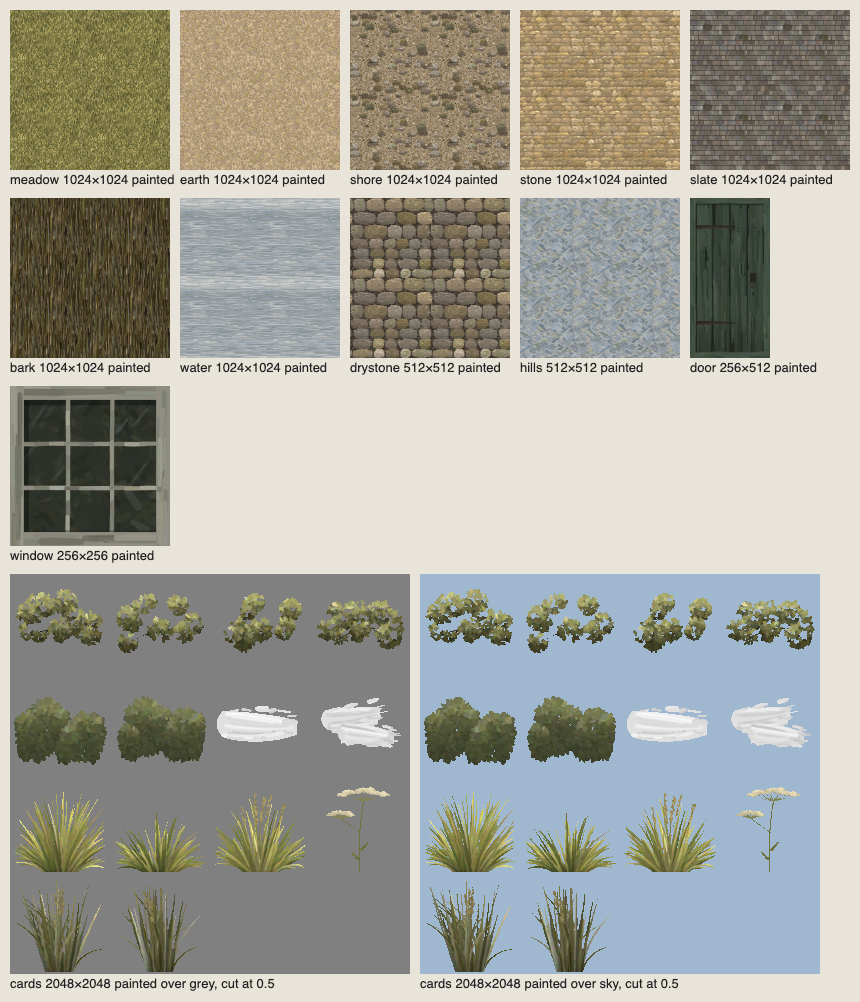
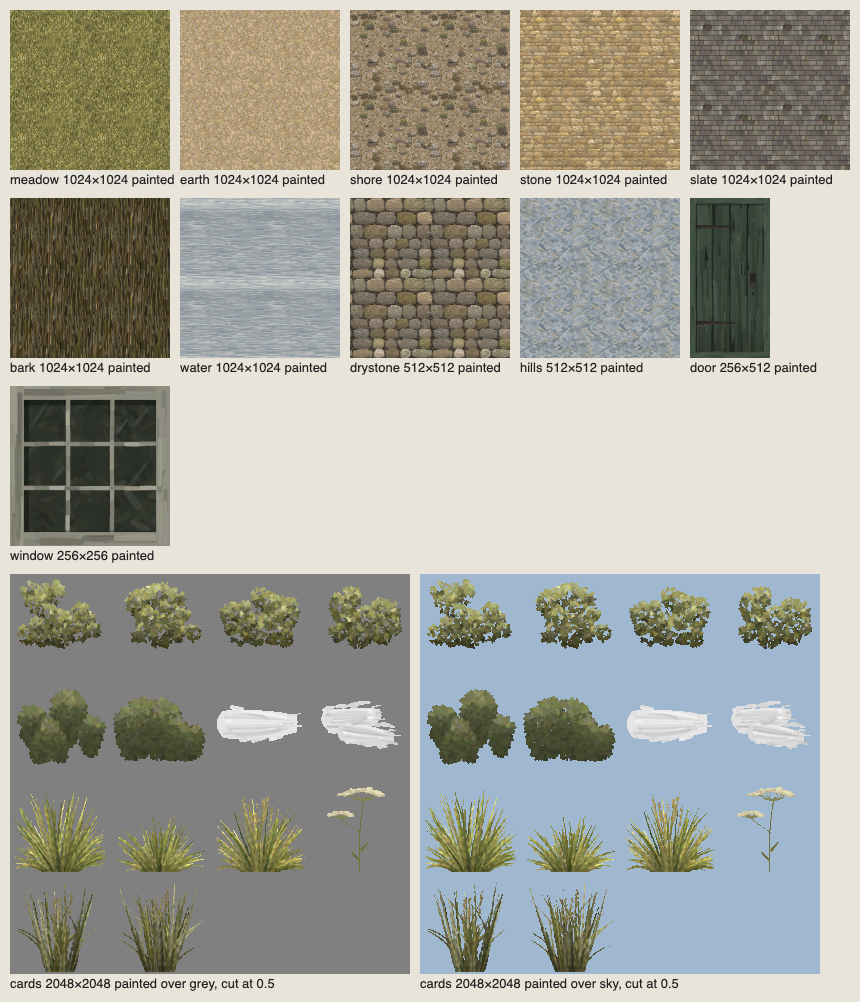
Grow oak sprays as connected branches, and step the reed outlines
Oak lobes now grow in branches from a large heart, each overlapping the
one it grows from, with small separated sky gaps; twigs follow the
branching and are kept only where leaves cover both ends. Blade strokes
vary in width and offset, alternate in tone and sometimes leave a nick,
so narrow arching reed leaves no longer run as one smooth shape. The
plates README states each failure message as it is printed.

diff --git a/scripts/space-painter/painter.js b/scripts/space-painter/painter.js
@@ -245,16 +245,24 @@ const MARGIN = 8, FRINGE_ALPHA = 8; // clear border per cell; 8-bit alpha of the
 // off in colour, so the outline breaks where one stroke hands over to the next. Returns false (drawing nothing) if any part would
 // leave the cell's clear margin.
 function blade(g, x, y, {len, lean, curl = 0, width, color, rib = false}, n, r) {
-  const steps = Math.max(4, Math.min(12, Math.round(len / (width * 1.6)))), spine = []; let a = lean, px = x, py = y;
+  const steps = Math.max(5, Math.min(18, Math.round(len / (width * 1.5)))), spine = []; let a = lean, px = x, py = y;
   for (let q = 0; q <= steps; q++) { spine.push([px, py, a]); px += Math.sin(a) * len / steps; py -= Math.cos(a) * len / steps; a += curl / steps; }
-  const half = q => width / 2 * (1 - q / steps) ** .7 + 1;
+  const half = q => width / 2 * (1 - q / steps) ** .7 * 1.25 + 2;
   if (spine.some(([u, v], q) => u - half(q) < MARGIN + 4 || u + half(q) > n - MARGIN - 4 || v - half(q) < MARGIN + 4 || v > n - MARGIN)) return false;
   const seg = len / steps;
   for (let q = 0; q < steps; q++) {
-    const [u0, v0, a0] = spine[q], [u1, v1] = spine[q + 1], t = (q + .5) / steps, last = q === steps - 1;
-    const shade = .62 + .56 * t ** .8, w = width * (1 - t) ** .7 * (1.05 + r() * .2) + 1.5;
-    dab(g, (u0 + u1) / 2, (v0 + v1) / 2, {angle: a0 - Math.PI / 2 + (r() - .5) * .06, len: seg * (last ? 1.15 : 1.7), width: Math.max(2, w), color: jitter(r, mul(color, shade), .12),
-      alpha: 1, bristles: 3, bend: (r() - .5) * .25, taper: last ? 1 : .55, ridge: rib && t > .3 ? .45 : 0}, r);
+    const [u0, v0, a0] = spine[q], [u1, v1] = spine[q + 1], t = (q + .5) / steps, last = q === steps - 1, angle = a0 - Math.PI / 2;
+    // Each stroke differs in width, sits a little off the spine and alternates lighter and darker, so the outline steps where
+    // one stroke hands over to the next instead of running as one smooth curve.
+    const shade = (.62 + .56 * t ** .8) * (q % 2 ? .9 : 1.08) * (.94 + r() * .12), w = width * (1 - t) ** .7 * (.85 + r() * .4) + 1.5, off = (r() - .5) * .35 * w;
+    const cx = (u0 + u1) / 2 - Math.sin(angle) * off, cy = (v0 + v1) / 2 + Math.cos(angle) * off;
+    dab(g, cx, cy, {angle: angle + (r() - .5) * .1, len: seg * (last ? 1.15 : 1.45 + r() * .4), width: Math.max(2, w), color: jitter(r, mul(color, shade), .1),
+      alpha: 1, bristles: 3, bend: (r() - .5) * .4, taper: last ? 1 : .5, ridge: rib && t > .3 ? .45 : 0}, r);
+    if (!last && r() < .22) { // a nick or dry-bristle trail off one edge, pointing on up the blade
+      const side = r() < .5 ? -1 : 1, e = w * (.45 + r() * .15);
+      dab(g, cx - Math.sin(angle) * side * e, cy + Math.cos(angle) * side * e, {angle: angle + side * (.04 + r() * .08), len: seg * (.6 + r() * .5), width: Math.max(1.5, w * (.25 + r() * .2)),
+        color: jitter(r, mul(color, shade * (.9 + r() * .25)), .12), alpha: 1, bristles: 1, taper: .9}, r);
+    }
   }
   return true;
 }
@@ -289,14 +297,21 @@ function leafMass(g, r, n, {lobes, holes = [], floor = n, count, leaf, rosette, 
   }
 }
 
-// Lobes for one oak spray: an uneven fan of lobes reaching out, up and a little down from the heart of the clump, kept inside the cell.
+// Lobes for one oak spray: a large heart, then three or four branches of lobes reaching out and up from it, each lobe overlapping
+// the one it grows from, then a few lobes filling between them, so the spray is one connected, lobed mass with an irregular
+// outline. Every lobe records its parent so the twigs can follow the same branching.
 function oakLobes(r, n) {
-  const k = n / 512, lobes = [], count = 7 + (r() * 4 | 0), lean = (r() - .5) * .7;
-  for (let q = 0; q < count; q++) {
-    const rad = (32 + r() * 40) * k, ang = -Math.PI / 2 + lean + (q / (count - 1) - .5) * 3.8 + (r() - .5) * .5, dist = (80 + r() * 95) * k;
-    lobes.push({x: clamp(n / 2 + Math.cos(ang) * dist * 1.25, rad + 40 * k, n - rad - 40 * k), y: clamp(n * .55 + Math.sin(ang) * dist * .85, rad + 36 * k, n - rad - 44 * k), rad});
+  const k = n / 512, heart = {x: n / 2, y: n * .6, rad: 70 * k, parent: null}, lobes = [heart], branches = 3 + (r() * 2 | 0), lean = (r() - .5) * .4;
+  const grow = (p, ang) => {
+    const rad = (36 + r() * 32) * k, d = (p.rad + rad) * (.55 + r() * .2), x = p.x + Math.cos(ang) * d * 1.3, y = p.y + Math.sin(ang) * d * .8;
+    if (x < rad + 34 * k || x > n - rad - 34 * k || y < rad + 30 * k || y > n * .6 + 46 * k) return null;
+    const l = {x, y, rad, parent: p}; lobes.push(l); return l;
+  };
+  for (let b = 0; b < branches; b++) {
+    const dir = -Math.PI / 2 + lean + (b / (branches - 1) - .5) * 3 + (r() - .5) * .3;
+    for (let p = heart, q = 0, steps = 2 + (r() * 3 | 0); p && q < steps; q++) p = grow(p, dir + (r() - .5) * .6);
   }
-  lobes.push({x: n / 2, y: n * .56, rad: 58 * k}); // the heart of the spray, so no lobe floats free
+  for (let q = 0, fill = 3 + (r() * 3 | 0); q < fill * 4 && lobes.length < 8 + branches * 4; q++) grow(lobes[r() * lobes.length | 0], -Math.PI / 2 + (r() - .5) * 3);
   return lobes;
 }
 
@@ -328,16 +343,24 @@ const CARDS = {
   // Lobed, lacy oak sprays: small leaves in uneven rosettes, yellow-green where lit, olive beneath, sky through small gaps.
   oak(g, r, n, i, s) {
     const lobes = oakLobes(r, n), k = n / 512, holes = [];
-    for (let q = 0; q < 9 + (r() * 5 | 0); q++) { const l = lobes[r() * lobes.length | 0]; holes.push([l.x + (r() - .5) * l.rad * 1.4, l.y + (r() - .5) * l.rad * 1.4, (8 + r() * 13) * k]); }
-    // Twigs, seen only in the shadowed lower half through the gaps: each starts somewhere in the heart of the spray (never below the
-    // mass) and stops short inside a lower or side lobe; the lit top has none.
-    const heart = lobes[lobes.length - 1]; g.lineCap = 'round'; g.strokeStyle = css(mul(s.bark.mean, .6));
-    for (const l of lobes.slice(0, -1)) {
-      if (l.y < heart.y - heart.rad * .4) continue;
-      const sx = heart.x + (r() - .5) * heart.rad * 1.2, sy = heart.y + (r() - .2) * heart.rad * .5, ex = sx + (l.x - sx) * (.6 + r() * .25), ey = sy + (l.y - sy) * (.6 + r() * .25);
-      g.lineWidth = (2 + r() * 2) * k; g.beginPath(); g.moveTo(sx, sy); g.quadraticCurveTo((sx + ex) / 2, Math.min(sy, ey) - 8 * k, ex, ey); g.stroke();
+    for (let q = 0, want = 9 + (r() * 4 | 0); q < want * 6 && holes.length < want; q++) { // small sky gaps, kept apart so none merge into a void
+      const l = lobes[r() * lobes.length | 0], h = [l.x + (r() - .5) * l.rad, l.y + (r() - .5) * l.rad, (8 + r() * 7) * k];
+      if (holes.every(([x, y, hr]) => Math.hypot(x - h[0], y - h[1]) > hr + h[2] + 34 * k)) holes.push(h); }
+    let area = 0; // leaf count follows the mass's area so every spray is equally dense
+    for (let y = 0; y < n; y += 8) for (let x = 0; x < n; x += 8) if (lobes.some(l => Math.hypot(x - l.x, y - l.y) < l.rad)) area += 64;
+    const leaves = canvas(n), lg = leaves.getContext('2d', {willReadFrequently: true});
+    leafMass(lg, r, n, {lobes, holes, count: area * .0062, leaf: [10 * k, 19 * k], rosette: true, light: s.leafLight, mid: s.leaf, dark: s.leafDark, contrast: .8, calm: .2, taper: .75});
+    // Twigs follow the branching from each lobe's parent to it, only in the shadowed lower part (the lit top has none), and only
+    // where leaves cover both ends, so a twig shows through gaps in the mass but never ends in open sky. Leaves go over them.
+    const cover = leaves.getContext('2d').getImageData(0, 0, n, n).data, covered = (x, y) => {
+      for (let dy = -3; dy <= 3; dy += 3) for (let dx = -3; dx <= 3; dx += 3) if (cover[((Math.round(y + dy) * n) + Math.round(x + dx)) * 4 + 3] < 200) return false; return true; };
+    const heart = lobes[0]; g.lineCap = 'round'; g.strokeStyle = css(mul(s.bark.mean, .6));
+    for (const l of lobes.slice(1)) {
+      const p = l.parent, sx = p.x + (r() - .5) * p.rad * .3, sy = p.y + (r() - .5) * p.rad * .3, ex = l.x + (r() - .5) * l.rad * .3, ey = l.y + (r() - .5) * l.rad * .3;
+      if (l.y < heart.y - heart.rad * .5 || !covered(sx, sy) || !covered(ex, ey)) continue;
+      g.lineWidth = (2 + r() * 2) * k; g.beginPath(); g.moveTo(sx, sy); g.quadraticCurveTo((sx + ex) / 2, Math.min(sy, ey) - 6 * k, ex, ey); g.stroke();
     }
-    leafMass(g, r, n, {lobes, holes, count: 440 * k * k, leaf: [10 * k, 19 * k], rosette: true, light: s.leafLight, mid: s.leaf, dark: s.leafDark, contrast: .8, calm: .2, taper: .75});
+    g.drawImage(leaves, 0, 0);
   },
   // Distant tree masses: broad, flat-bottomed domes in a narrow sage-to-moss range, blunt strokes, softly lit tops.
   woods(g, r, n, i, s) {

diff --git a/artwork/lakeside-space-v1/plates/README.md b/artwork/lakeside-space-v1/plates/README.md
@@ -20,6 +20,6 @@ node scripts/prepare-space-assets.mjs --only cards
 
 When the plate is accepted, `public/assets/lakeside-space-v1/export.json` records `"source": "plate"` for that slot.
 
-If the plate has the wrong dimensions, or (for `cards`) no transparent pixel, the command exits non-zero. Its message names the slot and the size it wants, for example `cards: plate is 1024×1024, want 2048×2048`.
+A plate the exporter cannot use makes the command exit non-zero, with a message that names the slot. For the wrong dimensions, the message also gives the size it wants, for example `cards: plate is 1024×1024, want 2048×2048`. For a `cards` plate with no transparent pixel it reads `cards: plate has no transparent pixel`.
 
 Remove the plate and run the same command to go back to the painted version.
